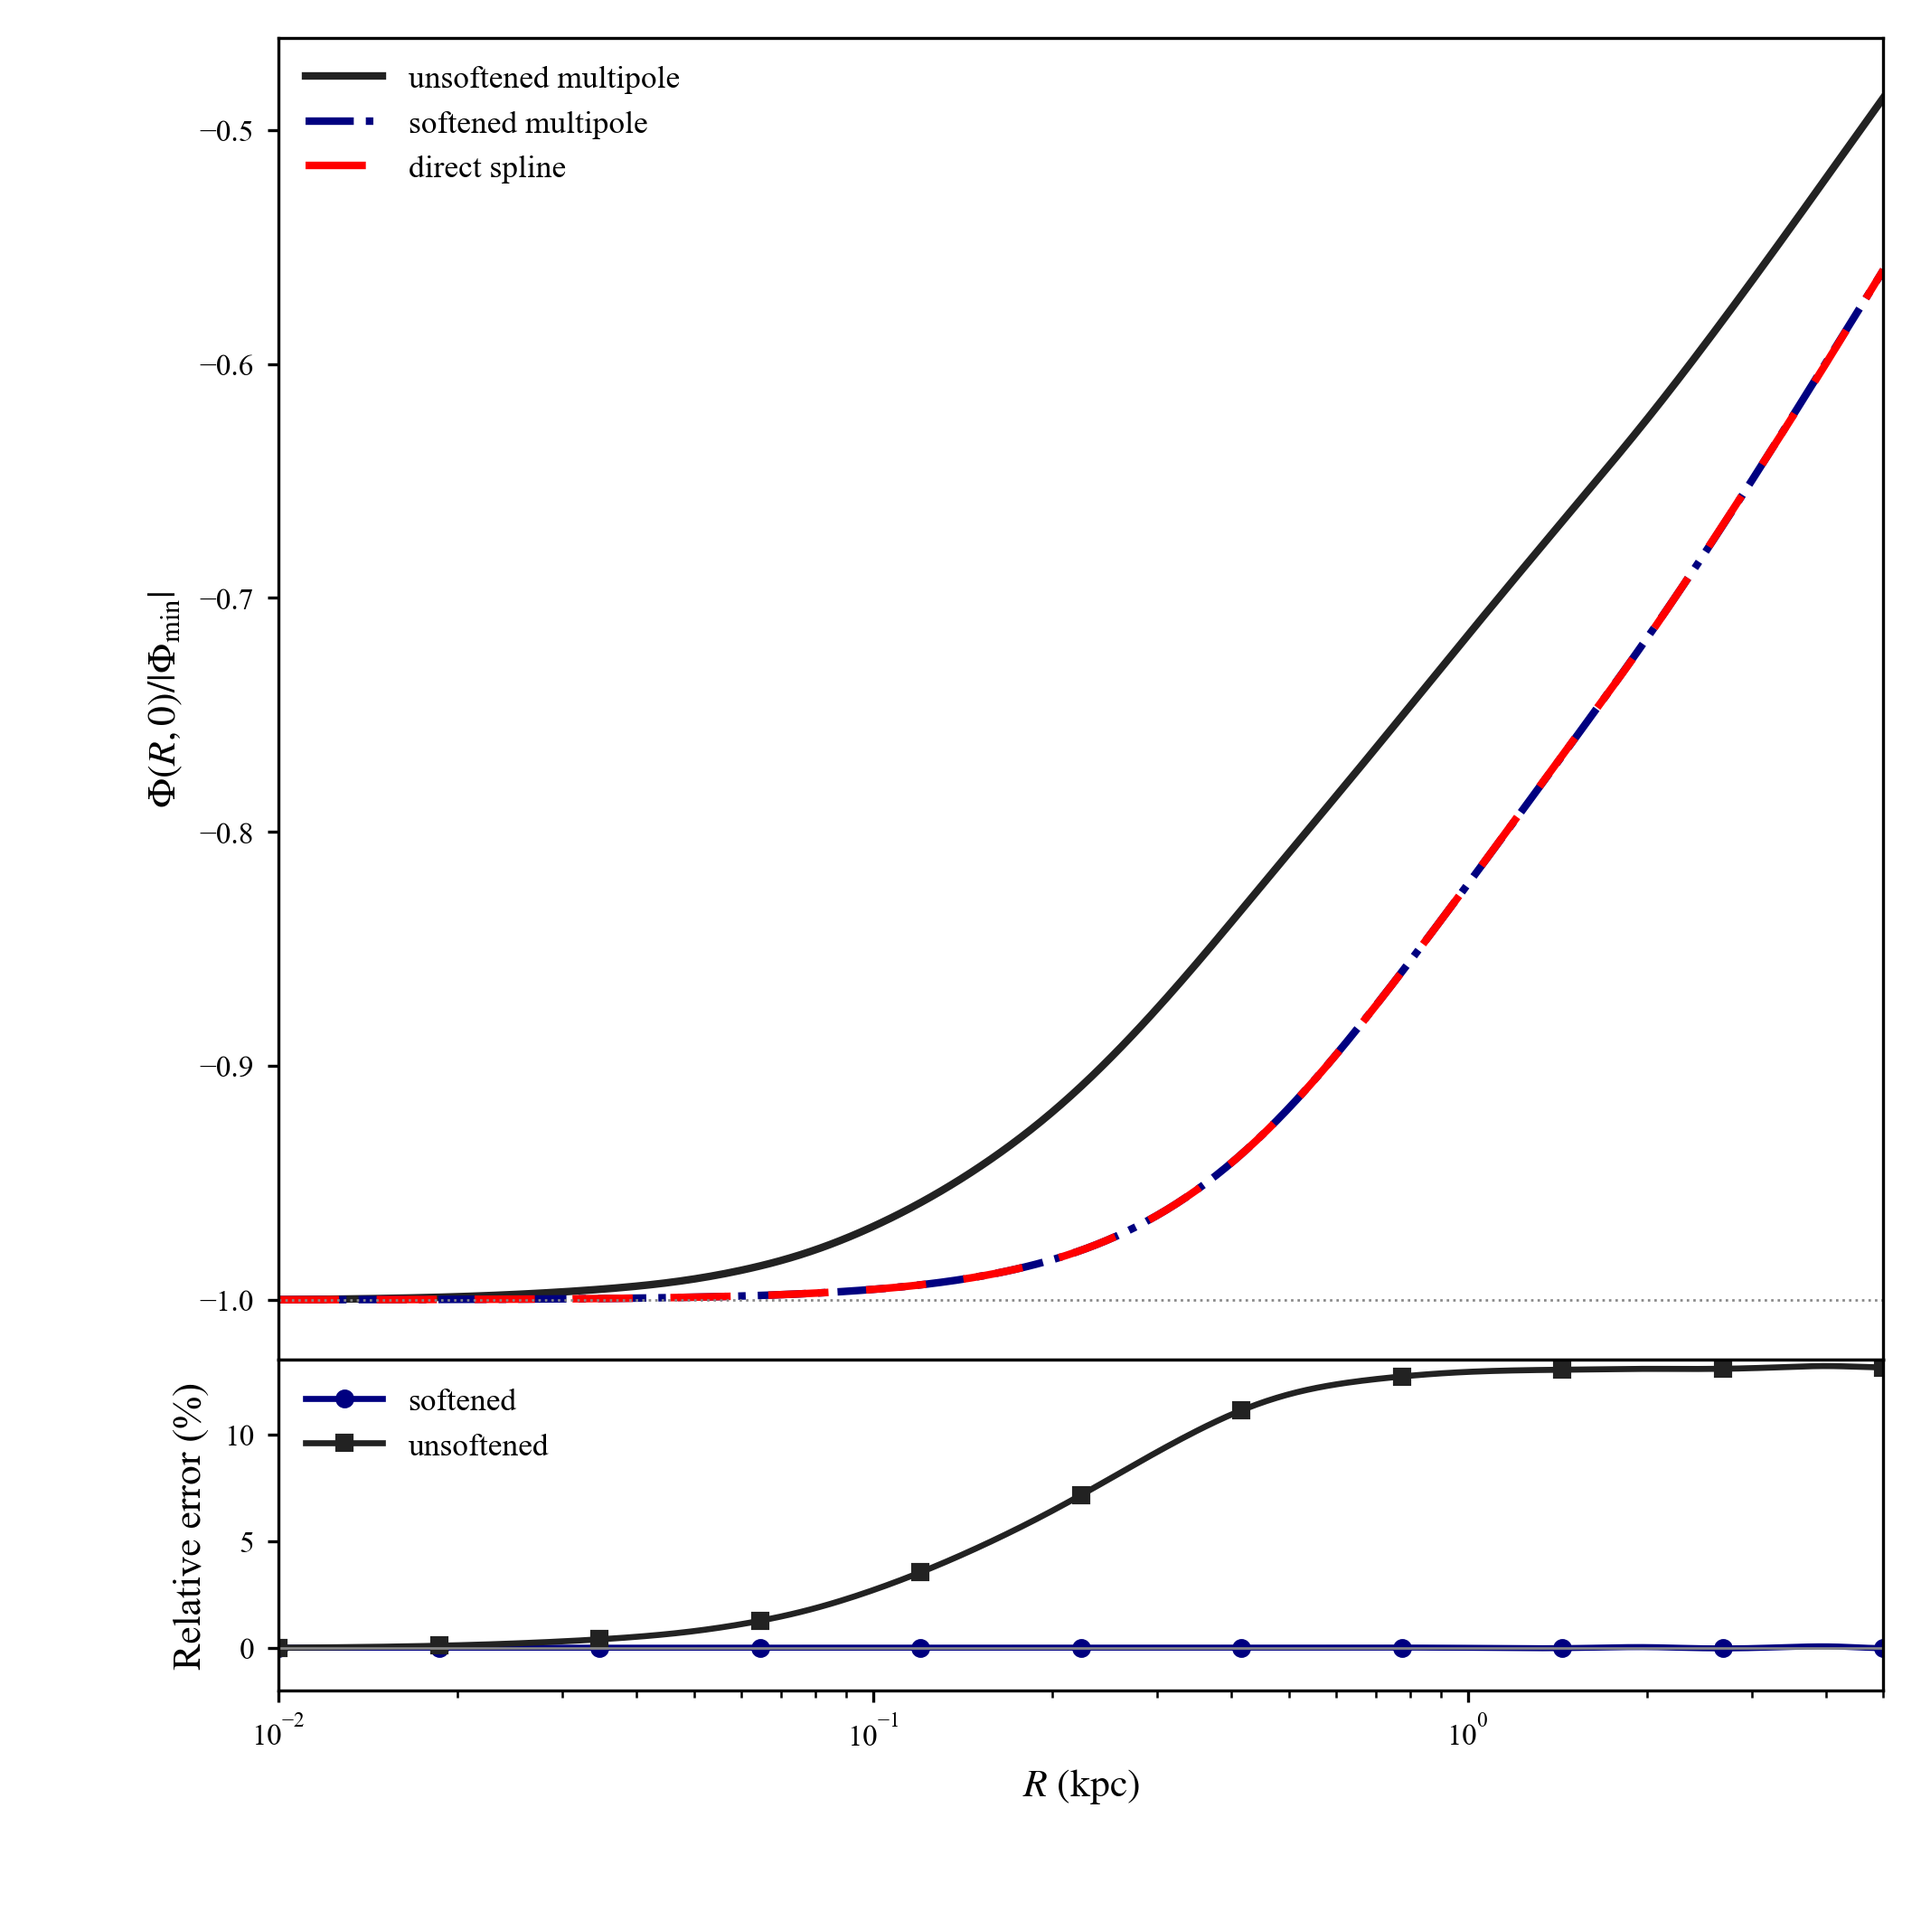
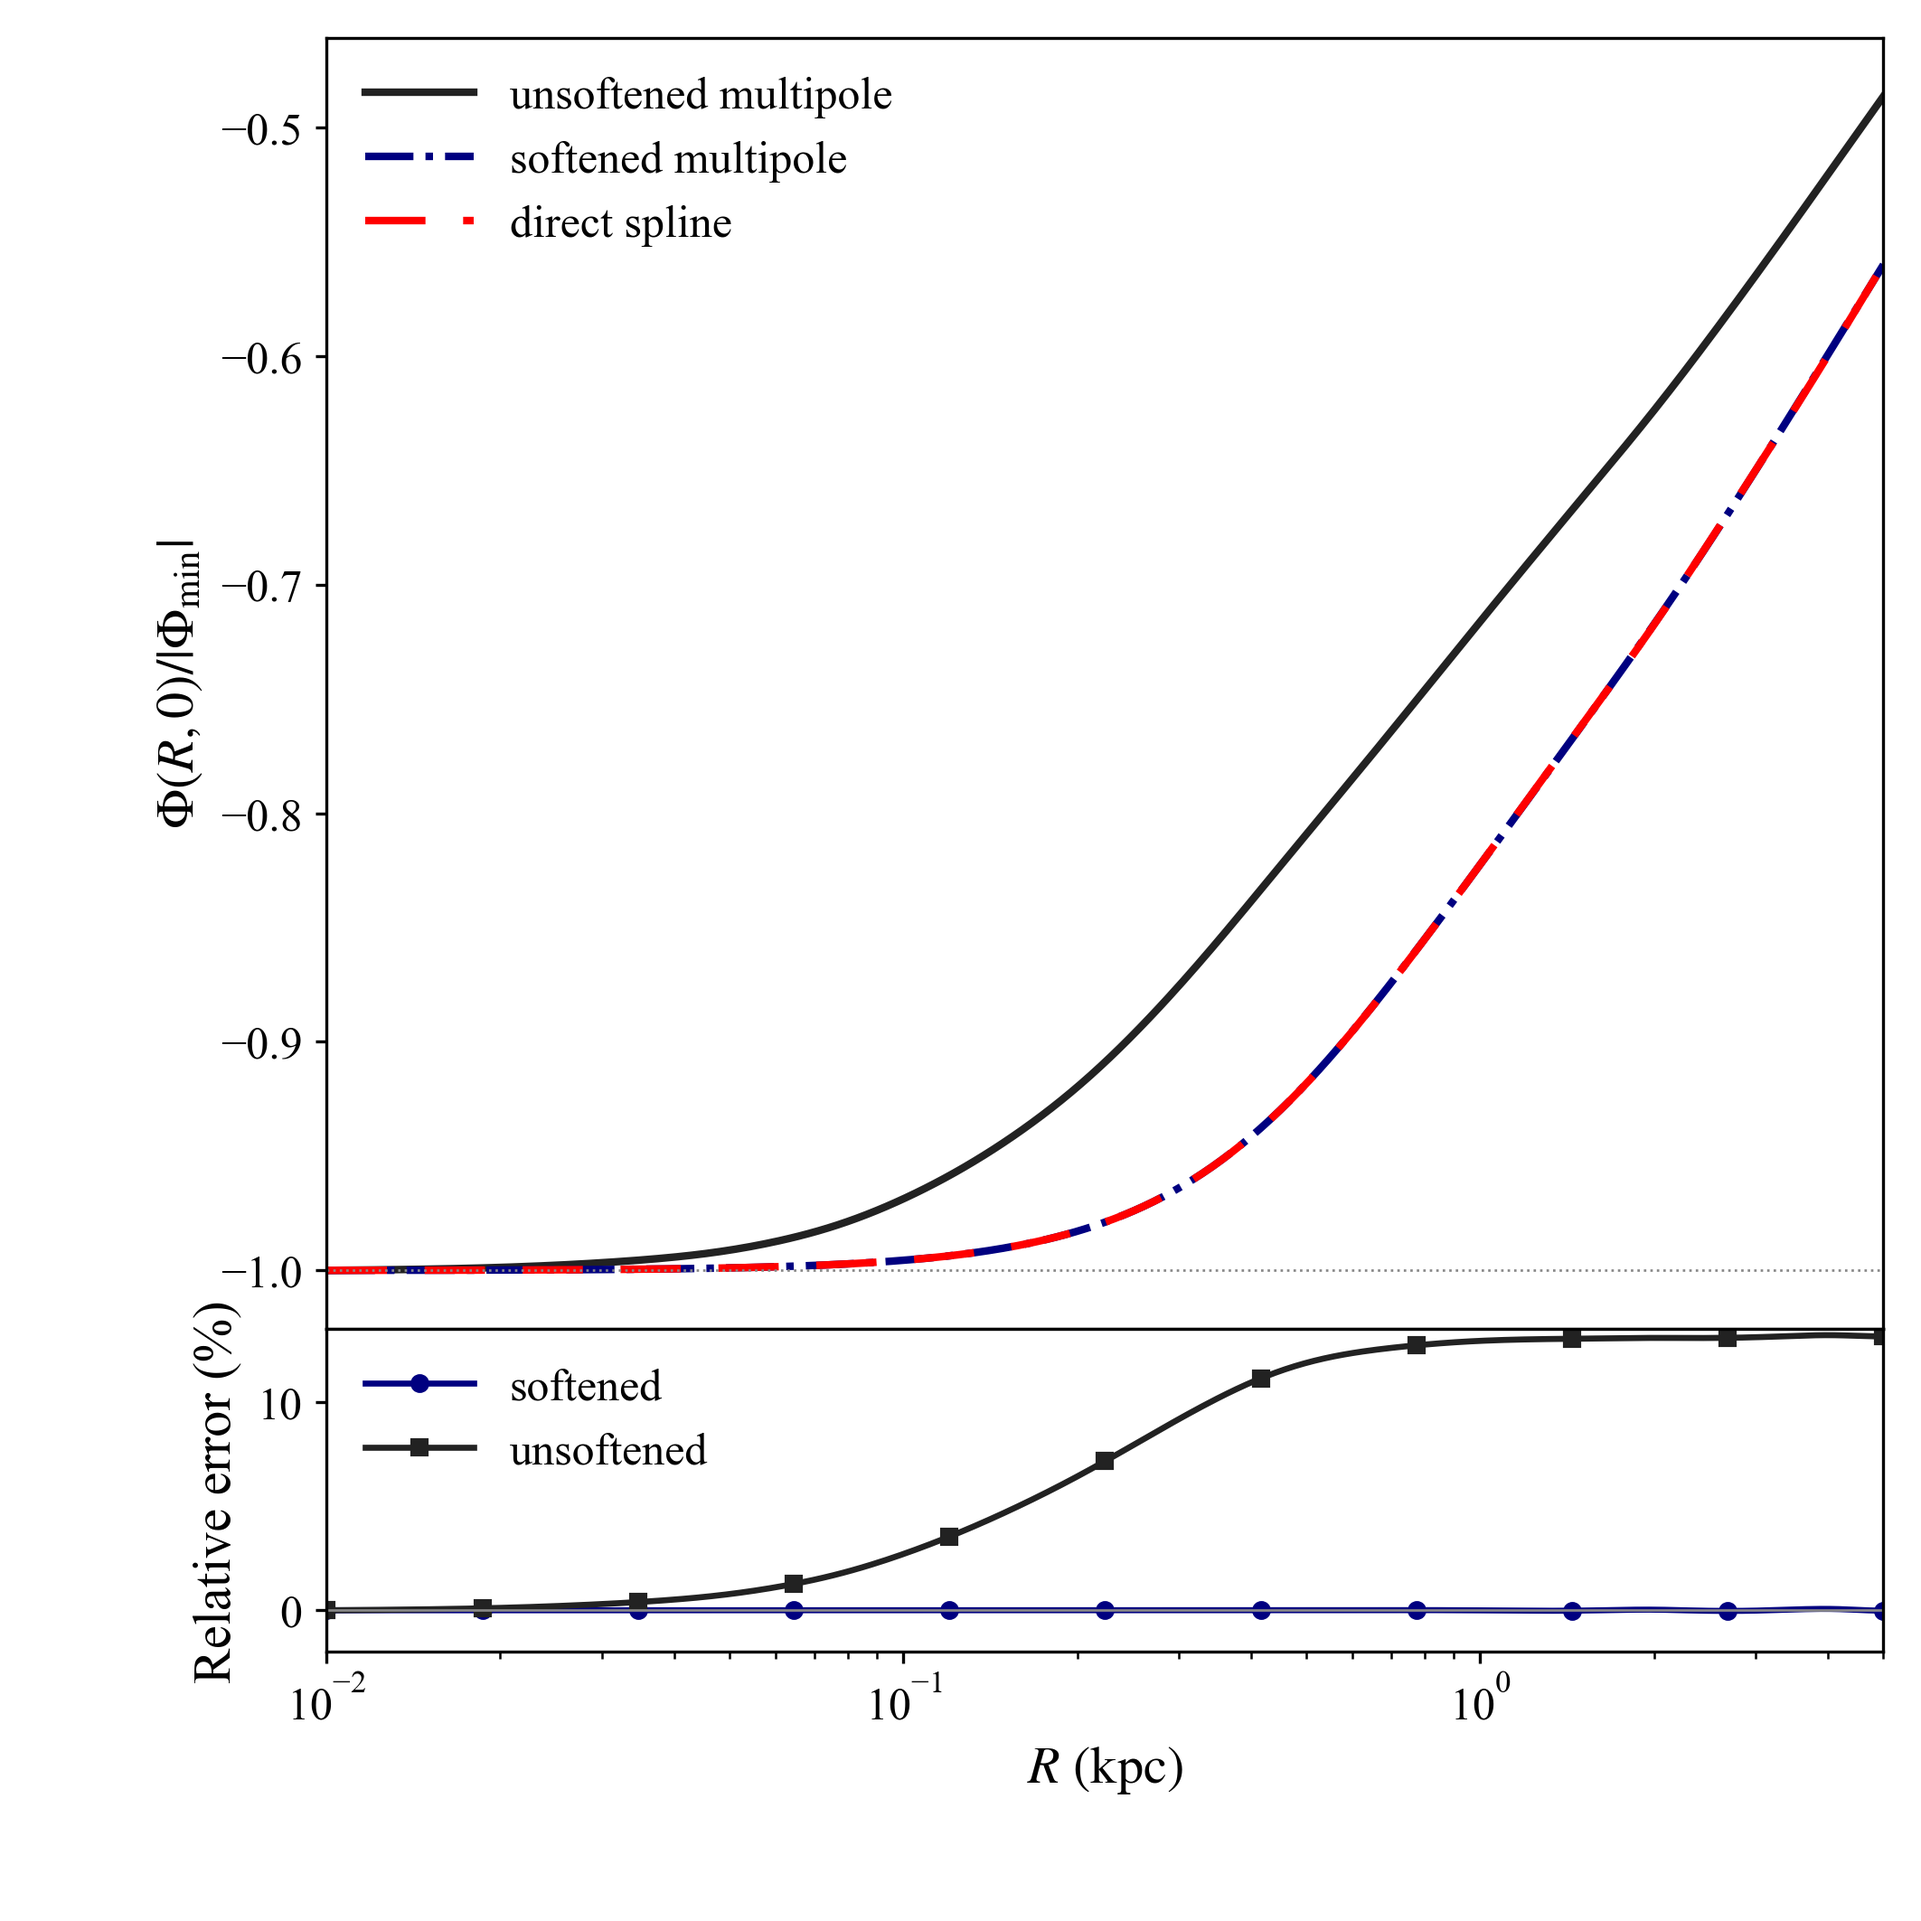
increase potential figure font sizes

diff --git a/tests/example_potential_profile_comparison.py b/tests/example_potential_profile_comparison.py
@@ -30,11 +30,12 @@ def set_publication_style() -> None:
         "font.family": "serif",
         "font.serif": ["Times New Roman", "Times", "DejaVu Serif"],
         "mathtext.fontset": "stix",
-        "font.size": 8.5,
-        "axes.labelsize": 10.5,
-        "xtick.labelsize": 8.0,
-        "ytick.labelsize": 8.0,
-        "legend.fontsize": 8.5,
+        "font.size": 12.0,
+        "axes.labelsize": 14.0,
+        "axes.titlesize": 14.0,
+        "xtick.labelsize": 12.0,
+        "ytick.labelsize": 12.0,
+        "legend.fontsize": 12.0,
         "legend.frameon": False,
         "axes.linewidth": 0.8,
         "xtick.major.width": 0.8,
@@ -71,7 +72,7 @@ def create_figure(input_path: Path, output_path: Path):
     grid = fig.add_gridspec(2, 1, height_ratios=(4.0, 1.0), hspace=0.0)
     ax_profile = fig.add_subplot(grid[0, 0])
     ax_error = fig.add_subplot(grid[1, 0], sharex=ax_profile)
-    fig.subplots_adjust(left=0.145, right=0.98, top=0.98, bottom=0.12, hspace=0.0)
+    fig.subplots_adjust(left=0.17, right=0.98, top=0.98, bottom=0.14, hspace=0.0)
 
     ax_profile.semilogx(radii, unsoft_norm, color="#222222", lw=2.0,
                         label="unsoftened multipole")
